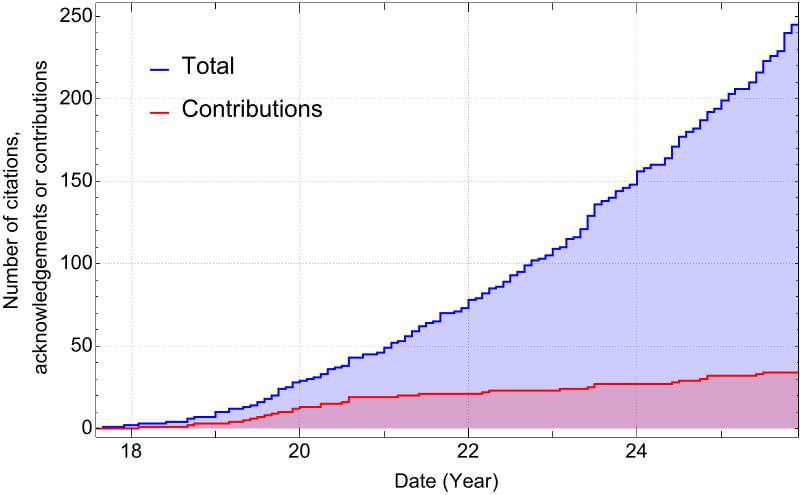
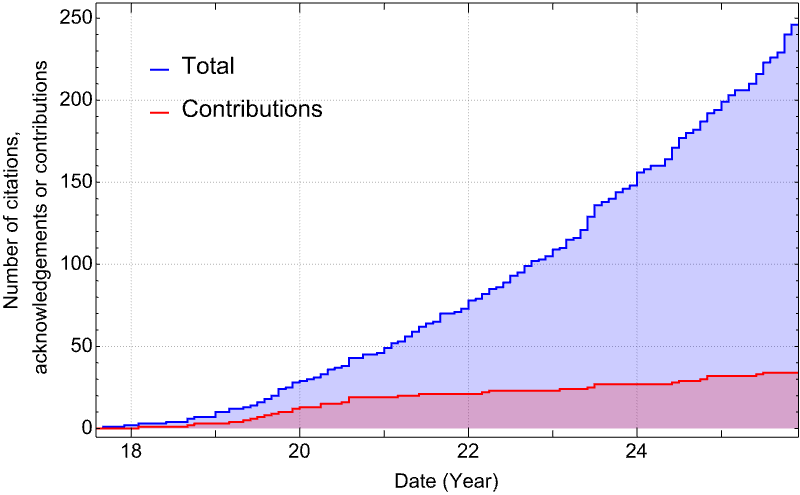
Add paper the cites the BHPToolkit

diff --git a/users.md b/users.md
@@ -19,6 +19,8 @@ The graph below show the accumulated citations to the Toolkit over time. The blu
 
 Below is a list of research papers that have used or extended the Toolkit. Papers that have contributed code or data to the Toolkit have a (*) after them.
 
+246\. "Constraint on massive vector field with extreme-mass-ratio inspirals around a slowly rotating black hole", Tieguang Zi, Peng-Cheng Li, Bao-Min Gu, Fu-Wen Shu, [arXiv:2511.18435](https://arxiv.org/abs/2511.18435)
+
 245\. "The Physics of Black Holes and Their Environments: Consequences for Gravitational Wave Science", Vitor Cardoso, Shauvik Biswas, Subhodeep Sarkar, [arXiv:2511.14841](https://arxiv.org/abs/2511.14841)
 
 244\. "Sub-Solar Mass Intermediate Mass Ratio Inspirals: Waveform Systematics and Detection Prospects with Gravitational Waves", Devesh Giri, Bhooshan Gadre, [arXiv:2511.13324](https://arxiv.org/abs/2511.13324)
